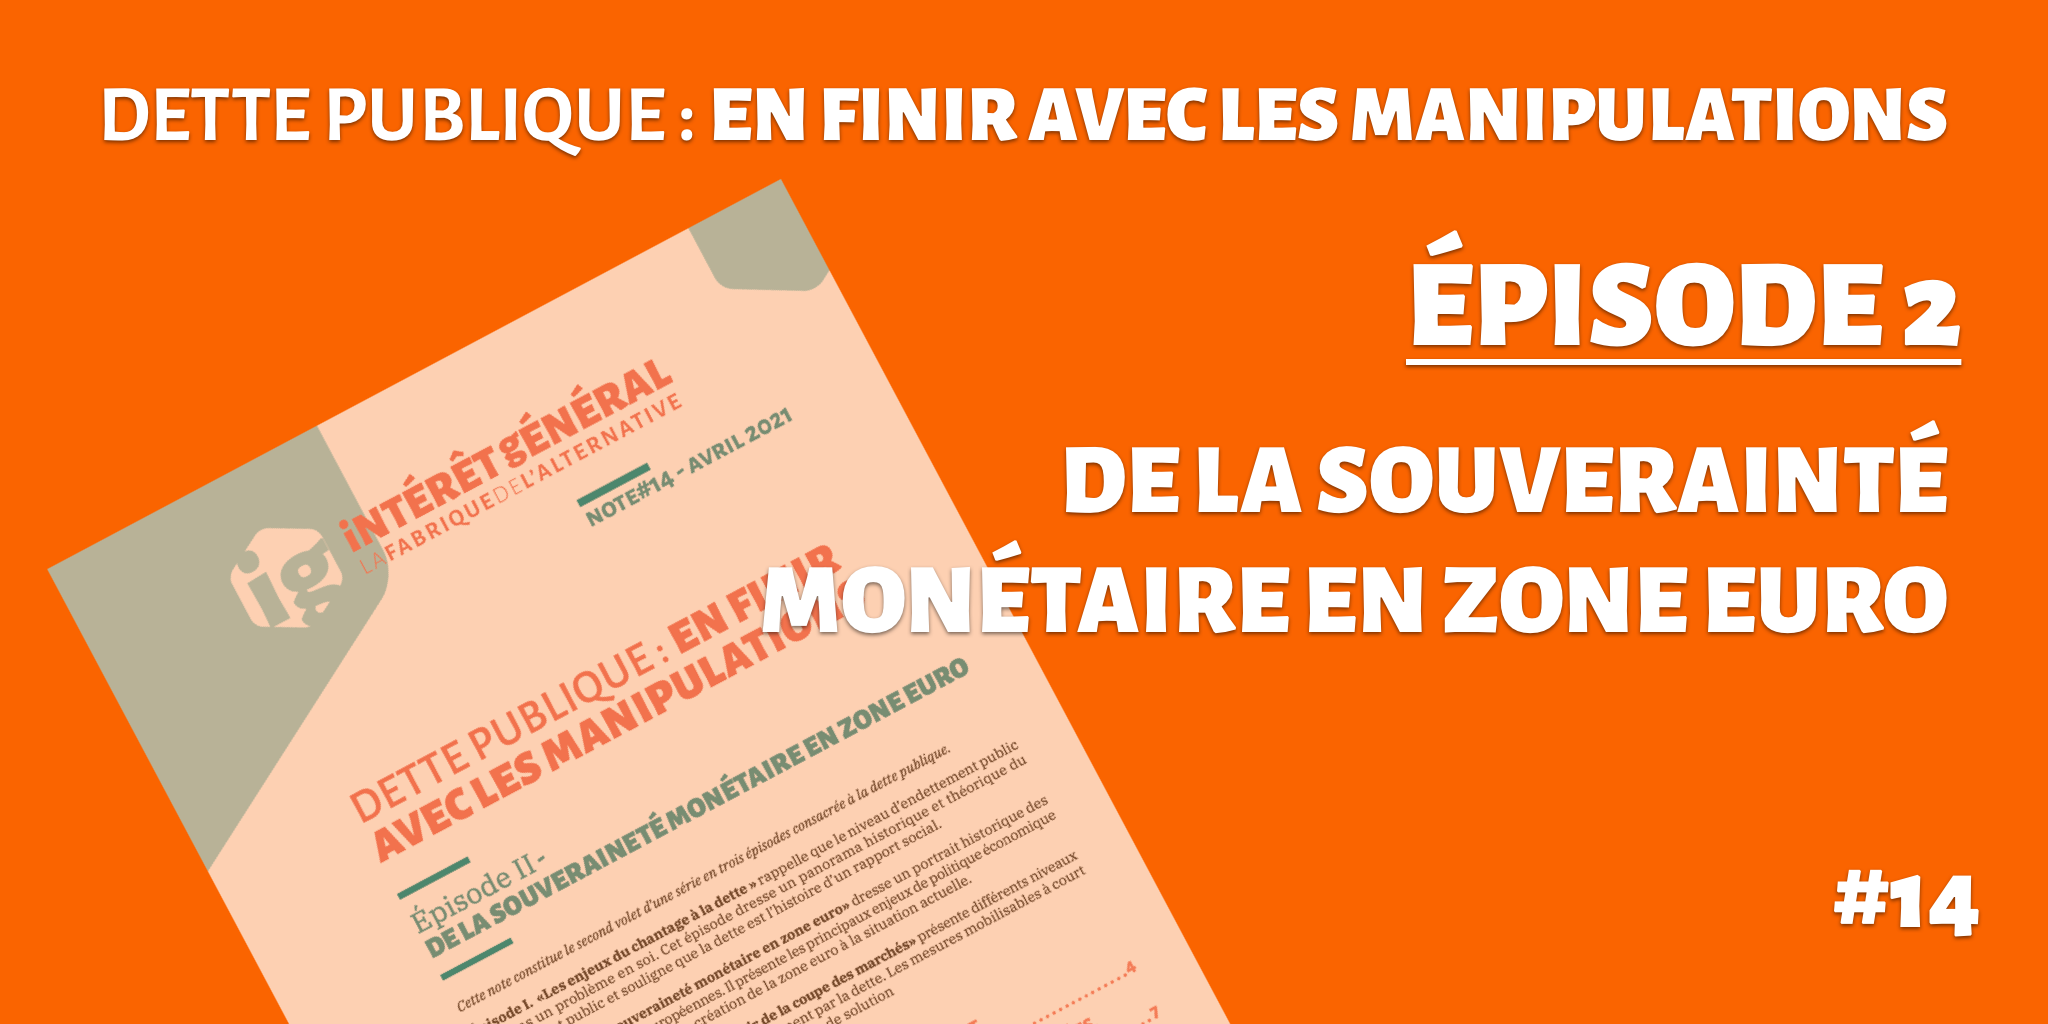
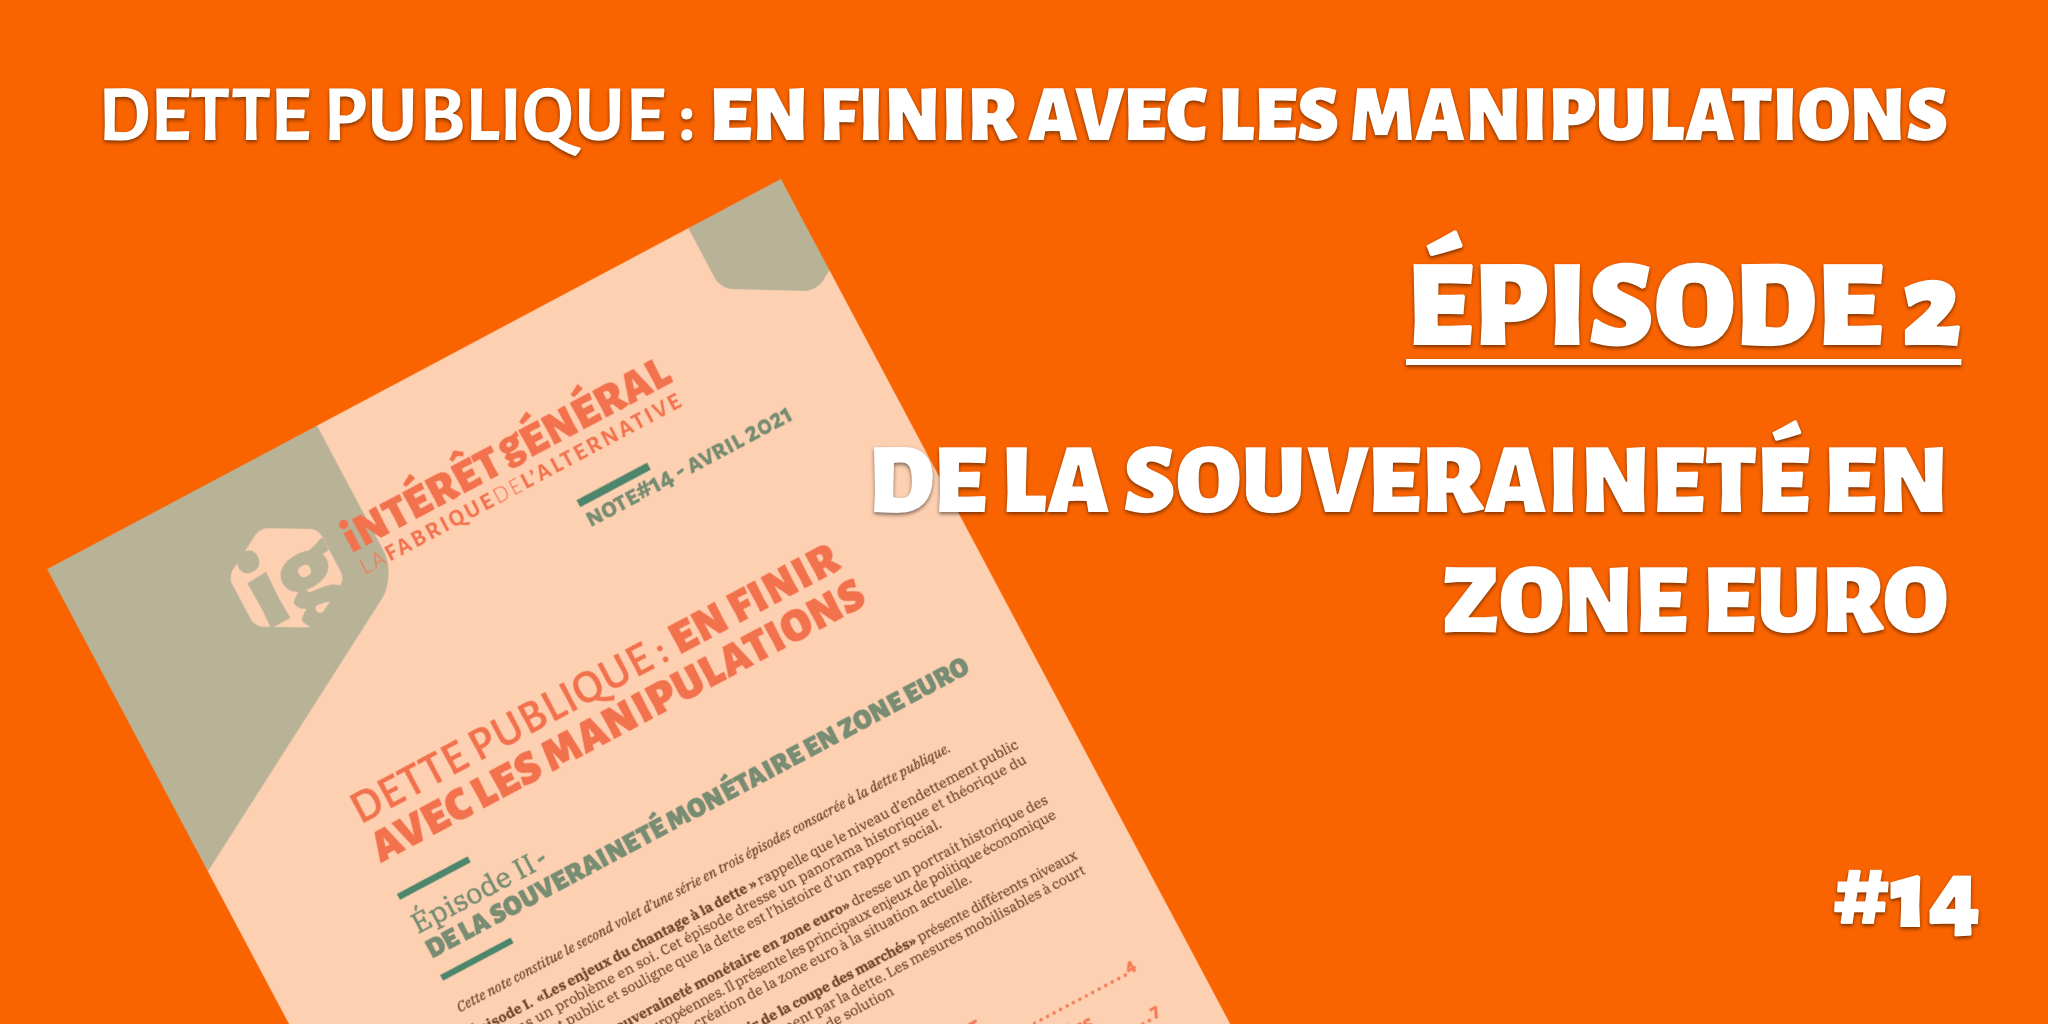
Fixes

Changed region(s): [[0.375, 0.4062, 0.9688, 0.625]]

diff --git a/publications/14.html b/publications/14.html
@@ -31,7 +31,7 @@
             padding: 5px;
         }
     </style>
-    <title>Dette publique : en finir avec les manipulations - Épisode II - De la souverainté monétaire en zone euro - Intérêt
+    <title>Dette publique : en finir avec les manipulations - Épisode II - De la souveraineté monétaire en zone euro - Intérêt
         Général</title>
     <meta name="description"
         content="Intérêt général est un laboratoire d’idées indépendant, composé de représentants des secteurs public, privé et universitaire, désireux de démontrer qu’une alternative est possible." />
@@ -39,14 +39,14 @@
     <meta name="twitter:card" content="summary">
     <meta name="twitter:site" content="@InteretGen">
     <meta name="twitter:title"
-        content="Dette publique : en finir avec les manipulations - Épisode II - De la souverainté monétaire en zone euro - Intérêt Général – Intérêt Général">
+        content="Dette publique : en finir avec les manipulations - Épisode II - De la souveraineté monétaire en zone euro - Intérêt Général – Intérêt Général">
     <meta name="twitter:description" content="">
     <meta name="twitter:creator" content="@InteretGen">
     <meta name="twitter:image" content="http://interetgeneral.net/cover-note-14.png">
 
     <!-- Open Graph data -->
     <meta property="og:title"
-        content="Dette publique : en finir avec les manipulations - Épisode II - De la souverainté monétaire en zone euro - Intérêt Général – Intérêt Général" />
+        content="Dette publique : en finir avec les manipulations - Épisode II - De la souveraineté monétaire en zone euro - Intérêt Général – Intérêt Général" />
     <meta property="og:type" content="article" />
     <meta property="og:url" content="http://interetgeneral.net/publications/14.html" />
     <meta property="og:image" content="http://interetgeneral.net/cover-note-14.png" />
@@ -81,7 +81,7 @@
             <h1><mark>Dette publique : en finir avec les manipulations</mark></h1>
         </header>
 
-        <h1><mark style="background-color: #208E8B;">Épisode II - De la souverainté monétaire en zone euro</h1>
+        <h1><mark style="background-color: #208E8B;">Épisode II - De la souveraineté monétaire en zone euro</h1>
         
         <p class="message"><i>Téléchargez la version complète de la note au format pdf <a href="./pdf/14.pdf">ici</a>.</i></p>
 
